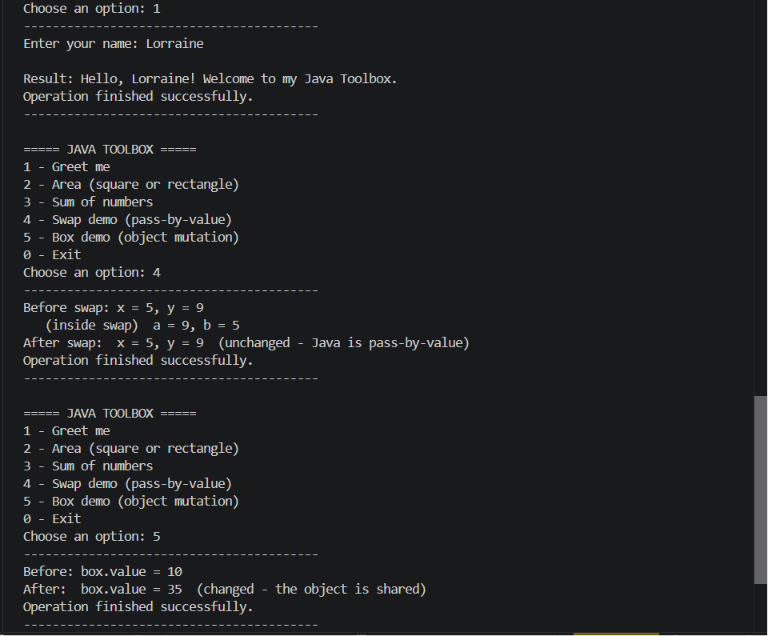
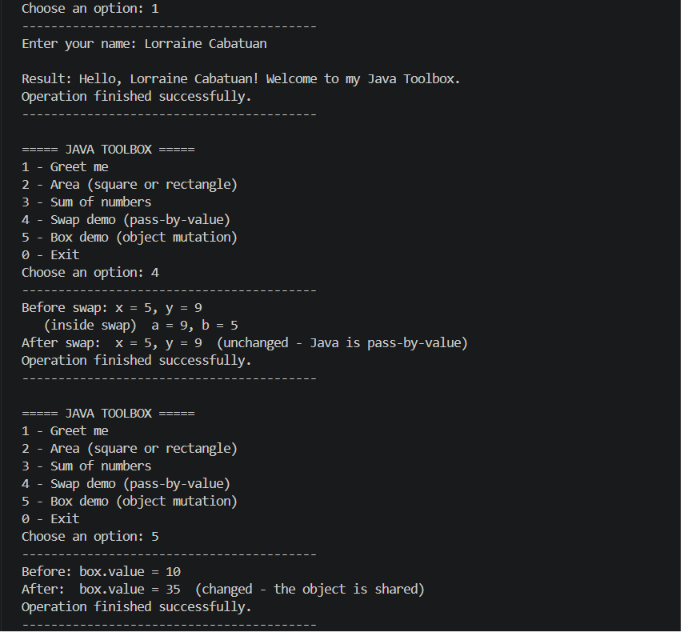
Lab Activity 4: Method and Parameter Passing

diff --git a/src/ToolBox.java b/src/ToolBox.java
@@ -10,7 +10,7 @@ class Box {
 }
 
 /**
- * Student Name: Lorraine
+ * Student Name: Lorraine Cabatuan
  * Course: Object-Oriented Programming
  * Lab Activity 4: Methods & Parameter Passing
  */
@@ -21,7 +21,7 @@ public class ToolBox {
         int choice = -1;
 
         System.out.println("=========================================");
-        System.out.println(" Welcome to Lorraine's Java Toolbox App ");
+        System.out.println(" Welcome to Lorraine Cabatuan's Java Toolbox App ");
         System.out.println("=========================================");
 
         while (choice != 0) {
@@ -71,9 +71,18 @@ public class ToolBox {
                             "Invalid input. Please enter a valid whole number.");
                     }
 
+                    // Formats number list matching sample run format
+                    StringBuilder sb = new StringBuilder();
+                    for (int i = 0; i < userNumbers.length; i++) {
+                        sb.append(userNumbers[i]);
+                        if (i < userNumbers.length - 1) {
+                            sb.append(", ");
+                        }
+                    }
+
                     // Passes array to varargs parameter method
                     int total = sum(userNumbers);
-                    System.out.println("\nResult: Sum = " + total);
+                    System.out.println("\nSum of " + sb + " = " + total);
                     break;
 
                 case 4:
@@ -185,7 +194,7 @@ public class ToolBox {
         }
     }
 
-    // Validates name: non-empty, non-whitespace, no numbers
+    // Validates name: letters, spaces, hyphens, and apostrophes only
     private static String readValidName(Scanner scanner, String prompt) {
         while (true) {
             System.out.print(prompt);
@@ -193,8 +202,8 @@ public class ToolBox {
             
             if (input.isEmpty()) {
                 System.out.println("Error: Name cannot be empty or blank.");
-            } else if (input.matches(".*\\d.*")) {
-                System.out.println("Error: Name cannot contain numbers.");
+            } else if (!input.matches("^[a-zA-Z\\s'-]+$")) {
+                System.out.println("Error: Name can only contain letters, spaces, hyphens, or apostrophes.");
             } else {
                 return input;
             }
